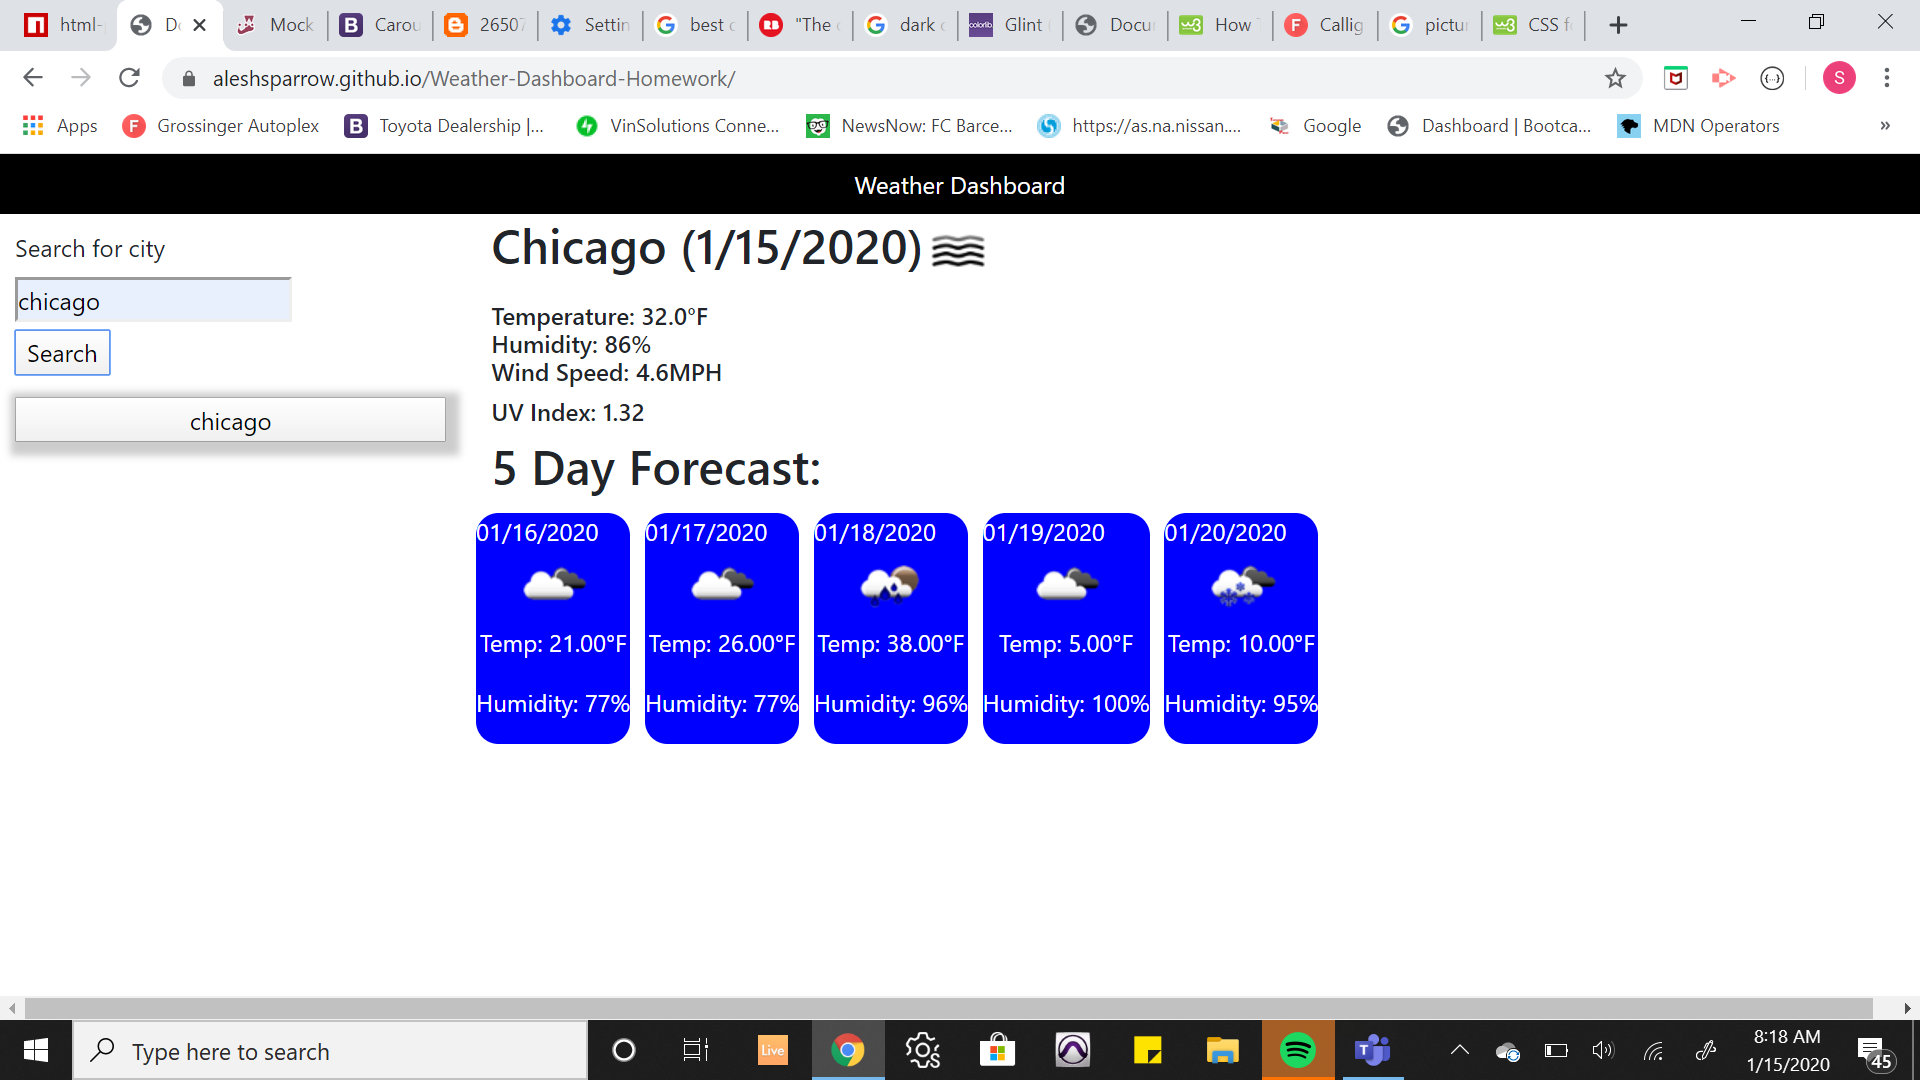
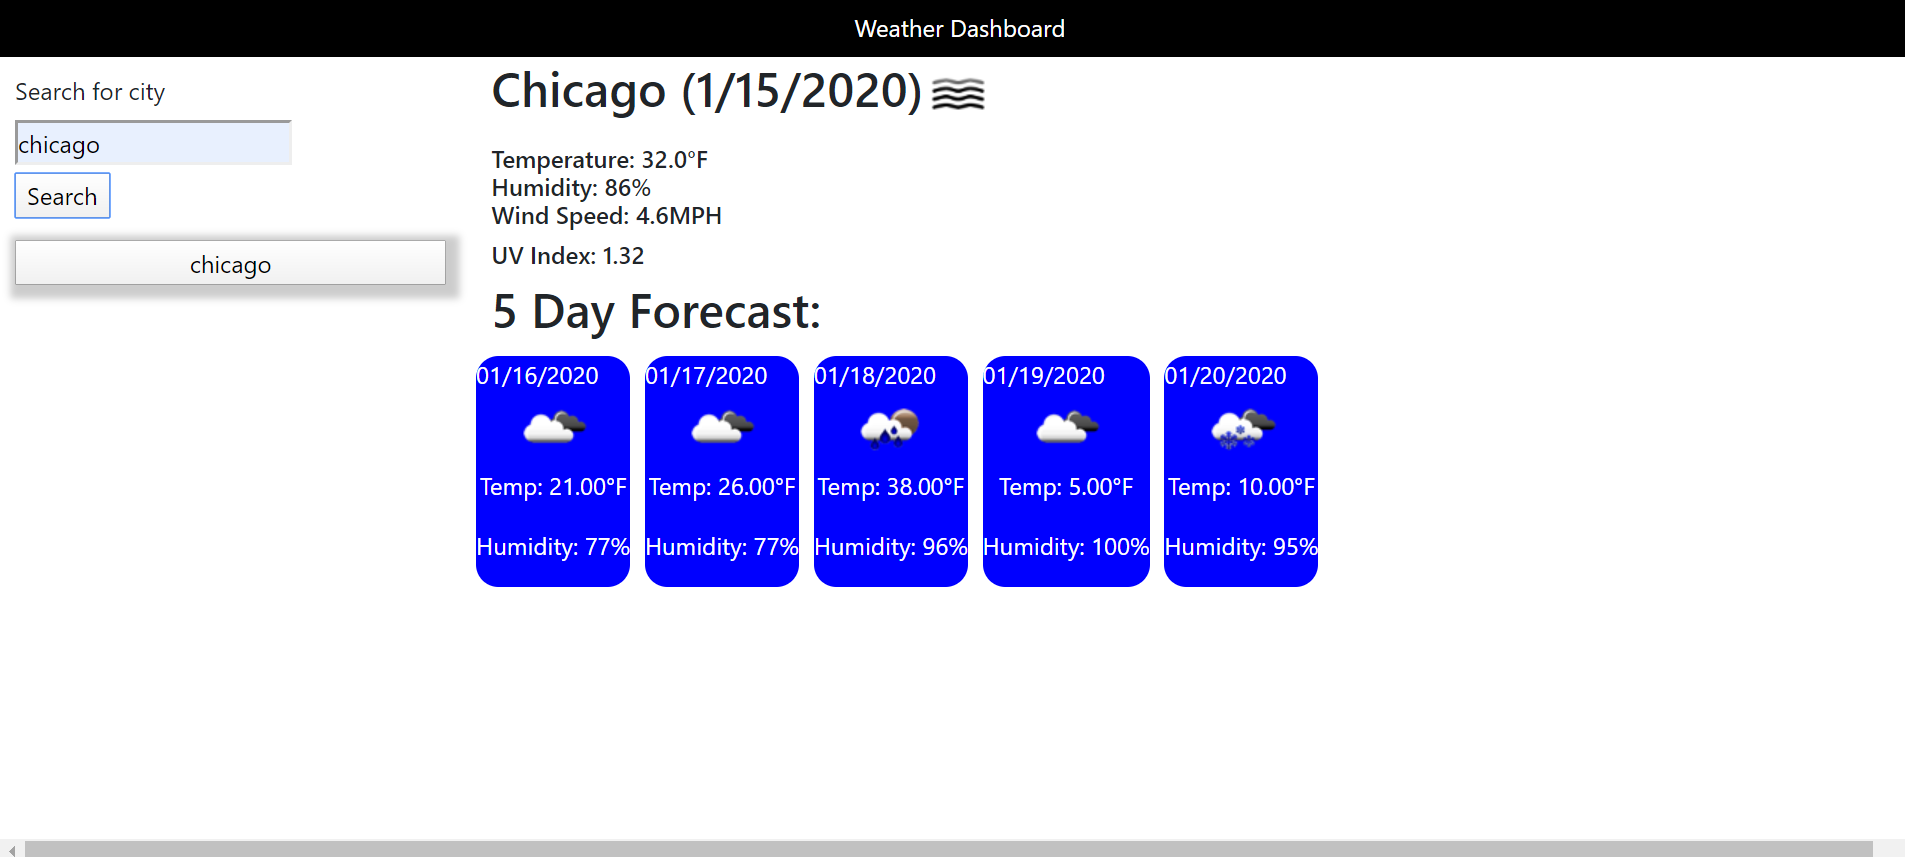
Trimmed some screen shots and cheanged some colors

Changed region(s): [[0.0, 0.0, 1.0, 0.6978], [0.0, 0.9102, 1.0, 1.0]]

diff --git a/portfolio.html b/portfolio.html
@@ -30,8 +30,8 @@
       <div id="text">
         <h1 style="color: rgb(245, 240, 240); font-weight: bolder;">Segun J. Alesinloye
         </h1>
-        <h3 style="color: rgb(1, 66, 28); font-weight: bolder;">Full Stack Web Developer</h3>
-        <h5 style="color: rgb(216, 6, 6); font-weight: bolder;">
+        <h3 style="color: #070112; font-weight: bolder;">Full Stack Web Developer</h3>
+        <h5 style="color: rgb(1, 12, 21); font-weight: bolder;">
             Motto: To be the conduit between your business and the world.</h5>
     </div>
 
@@ -60,8 +60,8 @@
     <br><br>
     <div class="row">
       <h5> Some of the projects I've worked on:</h5>
-      <div class="col-sm-10">
-        <a style="text-align: left;" href="https://aleshsparrow.github.io/Weather-Dashboard-Homework/">
+      <div class="col-sm-12">
+        <a href="https://aleshsparrow.github.io/Weather-Dashboard-Homework/">
           <div class="card mb-3" style="max-width: 100%;">
             <div class="row no-gutters">
               <div class="col-sm-6">
@@ -85,7 +85,7 @@
           <div class="card mb-3" style="max-width: 100%;">
             <div class="row no-gutters">
               <div class="col-sm-6">
-                <img src="./Assets/Screenshot (49).png" class="card-img" alt="...">
+                <img src="./Assets/hero-box.png" class="card-img" alt="...">
               </div>
               <div class="col-sm-6">
                 <div class="card-body">
@@ -103,7 +103,7 @@
           <div class="card mb-3" style="max-width: 100%;">
             <div class="row no-gutters">
               <div class="col-sm-6">
-                <img src="./Assets/project2.png" class="card-img" alt="...">
+                <img src="./Assets/soil-time.png" class="card-img" alt="...">
               </div>
               <div class="col-sm-6">
                 <div class="card-body">
@@ -132,8 +132,7 @@
                     required to enter a city or zip code into the search area. Upon click the search button, the user
                     will be supplied with some activities and some music to go with the mood. This app was built by me
                     and one other developer</p>
-                  <p class="card-text"><small class="text-muted">Technologies used: HTML, CSS, JavaScript, AJAX, API,
-                      Handlebars.js, Axios NPM package etc.</small></p>
+                  <p class="card-text"><small class="text-muted">Technologies used: HTML, CSS, JavaScript, jQuery, AJAX, API etc.</small></p>
                 </div>
               </div>
             </div>
@@ -141,7 +140,7 @@
         </a>
 
       </div>
-      <div class="col-sm-2">
+      <!-- <div class="col-sm-2">
         <ul class="links" style="list-style-type:none">
           <li>LinkedIn <a href="https://linkedin.com/in/segun-alesinloye-969771108" class="fa fa-linkedin"></a></li>
           <li>Resume <a
@@ -149,15 +148,24 @@
               class="fa fa-file"></a></li>
           <li>Github <a href="https://github.com/Aleshsparrow" class="fa fa-github"></a></li>
         </ul>
-      </div>
+      </div> -->
     </div>
   </div>
   <br><br><br><br>
 
-  <nav style="opacity: 0.5;  margin-top: 20px;" class="navbar fixed-bottom navbar-light bg-dark">
+  <nav style="opacity: 0.5; margin-top: auto;" class="navbar fixed-bottom navbar-light bg-dark">
     <a style="font-size: 15px; color: white;" class="navbar-brand" class="fa fa-copyright" href="#">&copy;Copyright
-      2020</a>
-  </nav>
+        2020
+    </a>
+    <!-- <ul class="links" style="list-style:outside none none;"> -->
+        <li>LinkedIn <a href="https://linkedin.com/in/segun-alesinloye-969771108"
+                class="fa fa-linkedin"></a></li>
+        <li>Resume <a
+                href="https://docs.google.com/document/d/1-XIBDKqEjIa5yV1AC0plGfWDwyPMTADLDlx6njuMI2U/edit?usp=sharing"
+                class="fa fa-file"></a></li>
+        <li>Github <a href="https://github.com/Aleshsparrow" class="fa fa-github"></a></li>
+    <!-- </ul> -->
+</nav>
 
   <script src="./index.js"></script>
 

diff --git a/index.html b/index.html
@@ -30,8 +30,8 @@
             <div id="text">
                 <h1 style="color: rgb(245, 240, 240); font-weight: bolder;">Segun J. Alesinloye
                 </h1>
-                <h3 style="color: rgb(1, 66, 28); font-weight: bolder;">Full Stack Web Developer</h3>
-                <h5 style="color: rgb(216, 6, 6); font-weight: bolder;">
+                <h3 style="color: #070112; font-weight: bolder;">Full Stack Web Developer</h3>
+                <h5 style="color: rgb(1, 12, 21); font-weight: bolder;">
                     Motto: To be the conduit between your business and the world.</h5>
             </div>
 
@@ -63,9 +63,9 @@
         </div>
         <br><br>
         <div class="row">
-            <div class="col-sm-12 col-md-10">
-                <h3>Skills and Technologies</h3>
-                <ul>
+            <div class="col-sm-12 col-md-6">
+                <h3 style="color: rgb(165, 6, 6);">Skills and Technologies</h3>
+                <ul style="text-align: center;">
                     <li>HTML</li>
                     <li>CSS</li>
                     <li>JavaScript</li>
@@ -81,15 +81,24 @@
                 </ul>
             </div>
             
-            <div class="col-sm-12 col-md-2">
-                <ul class="links" style="list-style-type:none">
+            <div class="col-sm-12 col-md-6">
+                <h3 style="color: rgb(165, 6, 6);">Soft Skills</h3>
+                <ul style="text-align: center;">
+                    <li>Team Player</li>
+                    <li>Communication</li>
+                    <li>Customer Service</li>
+                    <li>Time Management</li>
+                    <li>Goal Oriented</li>
+                </ul>
+
+                <!-- <ul class="links" style="list-style-type:none">
                     <li>LinkedIn <a href="https://linkedin.com/in/segun-alesinloye-969771108"
                             class="fa fa-linkedin"></a></li>
                     <li>Resume <a
                             href="https://docs.google.com/document/d/1-XIBDKqEjIa5yV1AC0plGfWDwyPMTADLDlx6njuMI2U/edit?usp=sharing"
                             class="fa fa-file"></a></li>
                     <li>Github <a href="https://github.com/Aleshsparrow" class="fa fa-github"></a></li>
-                </ul>
+                </ul> -->
             </div>
         </div>
     </div>
@@ -98,7 +107,16 @@
 
     <nav style="opacity: 0.5; margin-top: auto;" class="navbar fixed-bottom navbar-light bg-dark">
         <a style="font-size: 15px; color: white;" class="navbar-brand" class="fa fa-copyright" href="#">&copy;Copyright
-            2020</a>
+            2020
+        </a>
+        <!-- <ul class="links" style="list-style:outside none none;"> -->
+            <li>LinkedIn <a href="https://linkedin.com/in/segun-alesinloye-969771108"
+                    class="fa fa-linkedin"></a></li>
+            <li>Resume <a
+                    href="https://docs.google.com/document/d/1-XIBDKqEjIa5yV1AC0plGfWDwyPMTADLDlx6njuMI2U/edit?usp=sharing"
+                    class="fa fa-file"></a></li>
+            <li>Github <a href="https://github.com/Aleshsparrow" class="fa fa-github"></a></li>
+        <!-- </ul> -->
     </nav>
 
     <script src="./index.js"></script>

diff --git a/contact.html b/contact.html
@@ -30,8 +30,8 @@
             <div id="text">
                 <h1 style="color: rgb(245, 240, 240); font-weight: bolder;">Segun J. Alesinloye
                 </h1>
-                <h3 style="color: rgb(1, 66, 28); font-weight: bolder;">Full Stack Web Developer</h3>
-                <h5 style="color: rgb(216, 6, 6); font-weight: bolder;">
+                <h3 style="color: #070112; font-weight: bolder;">Full Stack Web Developer</h3>
+                <h5 style="color: rgb(1, 12, 21); font-weight: bolder;">
                     Motto: To be the conduit between your business and the world.</h5>
             </div>
 
@@ -61,7 +61,7 @@
         </div>
         <br><br>
         <div class="row">
-            <div class="col-sm-10">
+            <div class="col-sm-12">
                 <h4 style="color: white; text-align: left;">Have a Message?</h4>
 
                 <form style="color: white;">
@@ -91,7 +91,7 @@
                 <br>
 
             </div>
-            <div class="col-sm-2">
+            <!-- <div class="col-sm-2">
                 <br><br><br><br><br>
                 <ul class="links" style="list-style-type:none">
                     <li>LinkedIn <a href="https://linkedin.com/in/segun-alesinloye-969771108"
@@ -101,14 +101,23 @@
                             class="fa fa-file"></a></li>
                     <li>Github <a href="https://github.com/Aleshsparrow" class="fa fa-github"></a></li>
                 </ul>
-            </div>
+            </div> -->
         </div>
     </div>
     <br><br><br><br>
 
-    <nav style="opacity: 0.5;  margin-top: 20px;" class="navbar fixed-bottom navbar-light bg-dark">
+    <nav style="opacity: 0.5; margin-top: auto;" class="navbar fixed-bottom navbar-light bg-dark">
         <a style="font-size: 15px; color: white;" class="navbar-brand" class="fa fa-copyright" href="#">&copy;Copyright
-            2020</a>
+            2020
+        </a>
+        <!-- <ul class="links" style="list-style:outside none none;"> -->
+            <li>LinkedIn <a href="https://linkedin.com/in/segun-alesinloye-969771108"
+                    class="fa fa-linkedin"></a></li>
+            <li>Resume <a
+                    href="https://docs.google.com/document/d/1-XIBDKqEjIa5yV1AC0plGfWDwyPMTADLDlx6njuMI2U/edit?usp=sharing"
+                    class="fa fa-file"></a></li>
+            <li>Github <a href="https://github.com/Aleshsparrow" class="fa fa-github"></a></li>
+        <!-- </ul> -->
     </nav>
     <script src="./index.js"></script>
 

diff --git a/style.css b/style.css
@@ -43,7 +43,7 @@ section:after{
     background: #0a2a43;
     z-index: 10000;
     mix-blend-mode: color;
-    opacity: 0.65;
+    opacity: 0.6;
 }
 section img{
     position: absolute;
@@ -97,4 +97,22 @@ a button:hover{
     background-color: lightgreen;
     font-weight: bold;
 }
-
+nav li{
+    display: inline-block;
+    width: auto;
+    box-sizing: border-box;
+    padding: 0px;
+    margin: 0px;
+    list-style: outside none none;
+    /* float: left; */
+    color: white;
+    text-emphasis: bold;
+    opacity: 1;
+}
+nav li a:hover{
+    color: red;
+    font-weight: bolder;
+}
+div ul li{
+    list-style: outside none none;
+}
